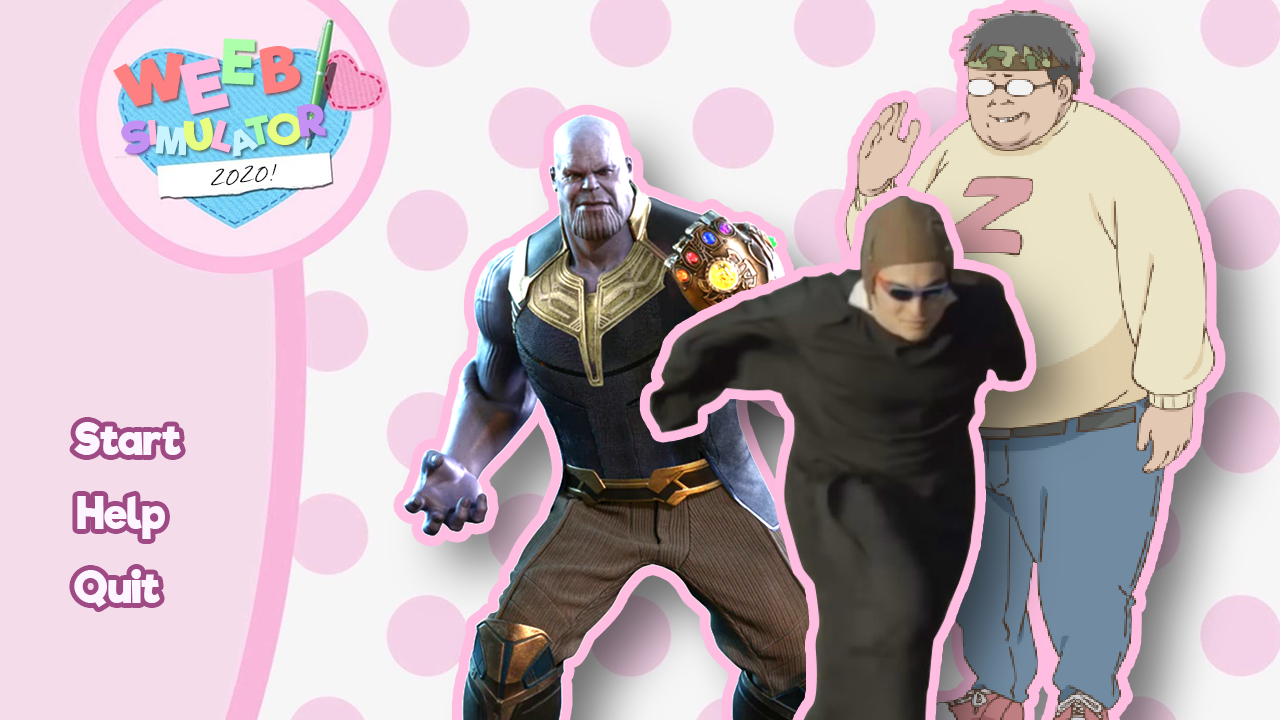
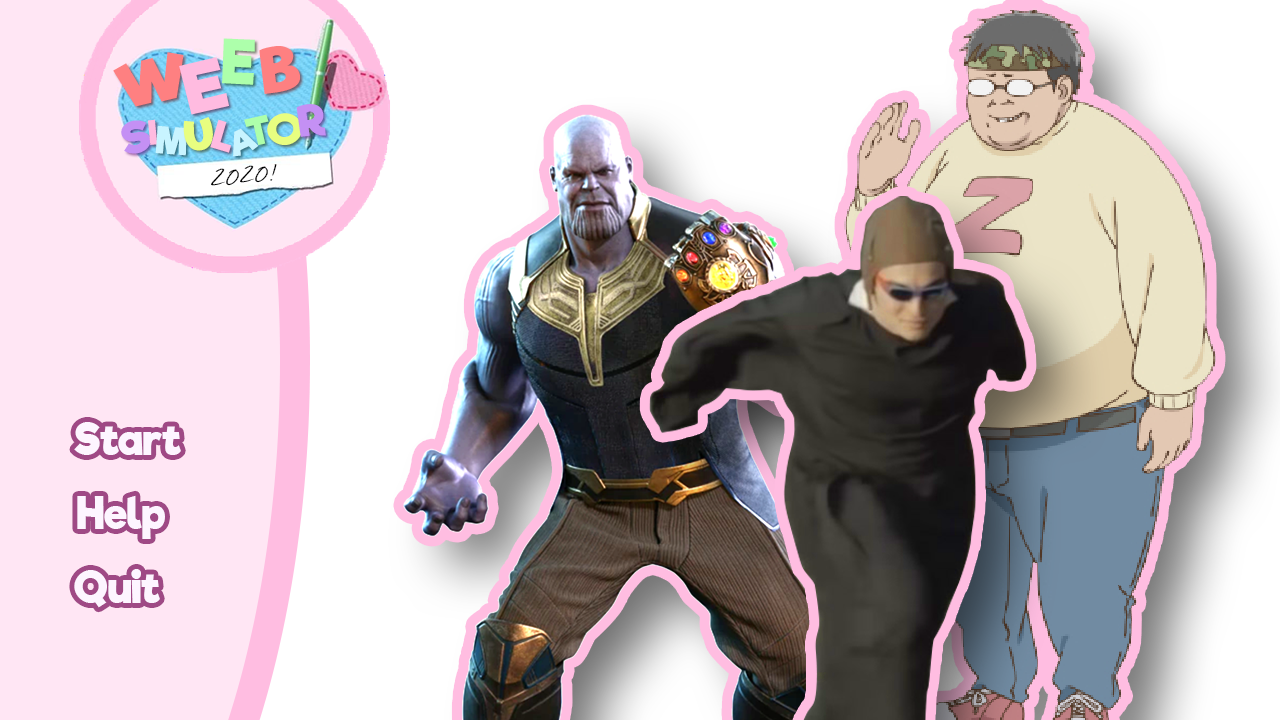
Implement moving menu bg image

diff --git a/src/control/SceneUtil.java b/src/control/SceneUtil.java
@@ -25,6 +25,7 @@ public class SceneUtil implements Commons {
 	private static Scene helpScene;
 	private static Scene gameOverScene;
 	private static AnimationTimer animationTimer;
+	private static AnimationTimer menuAnim;
 	
 	public static void init(Stage stage, Scene gameScene, AnimationTimer animationTimer) {
 		SceneUtil.stage = stage;
@@ -43,9 +44,22 @@ public class SceneUtil implements Commons {
 		GraphicsContext g = canvas.getGraphicsContext2D();
 		root.getChildren().add(canvas);
 		
+		menuAnim = new AnimationTimer(){
+			int x = 0;
+			int y = 0;
+			
+		    public void handle(long currentNanoTime)
+		    {
+				GraphicsUtil.drawMenu(g, MENU_BG_WIDTH - x - 1, MENU_BG_HEIGHT - y - 1);
+				x = (x + 1) % MENU_BG_WIDTH;
+				y = (y + 1) % MENU_BG_HEIGHT;
+		    }
+		};
+		
 		root.getChildren().addAll(getMenuButton(61, 400, 140, 75, new EventHandler<MouseEvent>() {
 			@Override
 			public void handle(MouseEvent t) {
+				menuAnim.stop();
 				stage.setScene(gameScene);
 				stage.show();
 				animationTimer.start();
@@ -56,6 +70,7 @@ public class SceneUtil implements Commons {
 		root.getChildren().addAll(getMenuButton(61, 475, 140, 75, new EventHandler<MouseEvent>() {
 			@Override
 			public void handle(MouseEvent t) {
+				menuAnim.stop();
 				stage.setScene(helpScene);
 				stage.show();
 			}
@@ -68,8 +83,7 @@ public class SceneUtil implements Commons {
 			}
 		}));
 		
-		GraphicsUtil.drawMenu(g);
-		
+		menuAnim.start();		
 		return scene;
 	}
 
@@ -99,6 +113,7 @@ public class SceneUtil implements Commons {
 			public void handle(MouseEvent t) {
 				stage.setScene(menuScene);
 				stage.show();
+				menuAnim.start();
 				AudioUtil.playMusic(AudioUtil.BGM_MENU);
 			}
 		}));

diff --git a/src/control/GraphicsUtil.java b/src/control/GraphicsUtil.java
@@ -22,6 +22,7 @@ import sprite.Target;
 public class GraphicsUtil implements Commons {
 	
 	private static WritableImage bg;
+	private static WritableImage menuBG;
 	private static WritableImage menu;
 	
 	public static void init() {
@@ -29,6 +30,8 @@ public class GraphicsUtil implements Commons {
 				WINDOW_WIDTH, WINDOW_HEIGHT);
 		menu = new WritableImage(new Image(ClassLoader.getSystemResource("images/menu.png").toString()).getPixelReader(),
 				WINDOW_WIDTH, WINDOW_HEIGHT);
+		menuBG = new WritableImage(new Image(ClassLoader.getSystemResource("images/menu_bg.png").toString()).getPixelReader(),
+				MENU_BG_WIDTH, MENU_BG_HEIGHT);
 	}
 
 	public static void doDrawing(GraphicsContext g, ArrayList<Target> targets, Player player,  ArrayList<Landmine> landmines,
@@ -153,7 +156,11 @@ public class GraphicsUtil implements Commons {
         GraphicsUtil.drawScore(g);
 	}
 	
-	public static void drawMenu(GraphicsContext g) {
+	public static void drawMenu(GraphicsContext g, int x, int y) {
+		g.drawImage(menuBG, x - MENU_BG_WIDTH, y - MENU_BG_HEIGHT);
+		g.drawImage(menuBG, x, y - MENU_BG_HEIGHT);
+		g.drawImage(menuBG, x - MENU_BG_WIDTH, y);
+		g.drawImage(menuBG, x, y);
 		g.drawImage(menu, 0, 0);
 	}
 }

diff --git a/src/main/Main.java b/src/main/Main.java
@@ -68,6 +68,7 @@ public class Main extends Application implements Commons {
 		
 		stage.setTitle("Weeb Simulator 2020");
 		stage.setScene(SceneUtil.getMenuScene());
+		stage.setResizable(false);
 		stage.show();
 		AudioUtil.playMusic(AudioUtil.BGM_MENU);
 	}

diff --git a/src/base/Commons.java b/src/base/Commons.java
@@ -6,6 +6,9 @@ public interface Commons {
 
     int WINDOW_WIDTH = 1280;
     int WINDOW_HEIGHT = 720;
+	int MENU_BG_WIDTH = 1740;
+	int MENU_BG_HEIGHT = 1522;
+	
     int BORDER_RIGHT = 30;
     int BORDER_LEFT = 30;
     int BORDER_TOP = 100;

diff --git a/src/sprite/Player.java b/src/sprite/Player.java
@@ -1,4 +1,4 @@
-package sprite;
+	package sprite;
 
 import base.Commons;
 import control.GameController;
